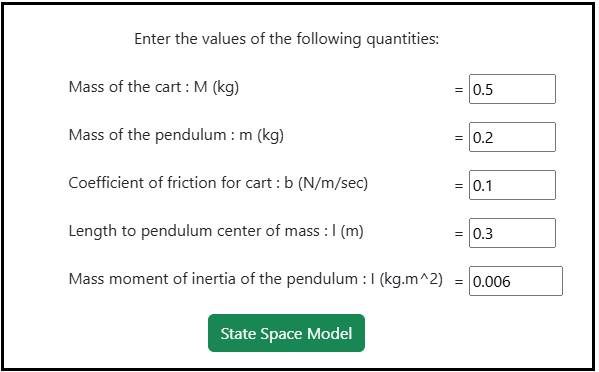
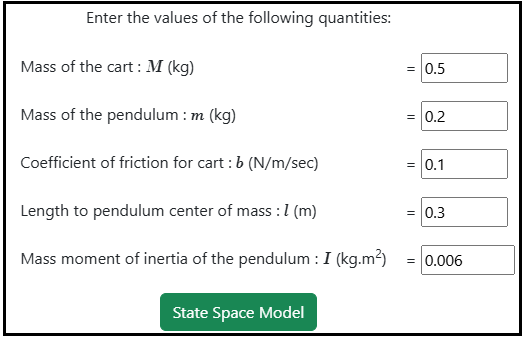
update 5

Changed region(s): [[0.0, 0.0, 1.0, 1.0], [0.7634, 0.1775, 0.9466, 0.4142]]

diff --git a/experiment/simulation/js/DS.js b/experiment/simulation/js/DS.js
@@ -71,10 +71,10 @@ function system(){
 			
 			
 			
-			document.getElementById('matA').innerHTML = ' A =['+ a11+',\t'+a12+',\t'+a13+',\t'+a14+';\t\t'+a21+','+a22+',\t'+a23+',\t'+a24+';\t\t'+a31+',\t'+a32+',\t'+a33+',\t'+a34+';\t\t'+a41+',\t'+a42+',\t'+a43+',\t'+a44+']';
-			document.getElementById('matB').innerHTML = ' B =['+ b1+';\t\t'+b2+';\t\t'+b3+';\t'+b4+']';
-			document.getElementById('matC').innerHTML = ' C =['+ c11+',\t'+c12+',\t'+c13+',\t'+c14+';\t\t'+c21+','+c22+',\t'+c23+',\t'+c24+']';
-			document.getElementById('matD').innerHTML = ' D =['+ d11+';\t\t'+d21+']';
+			document.getElementById('matA').innerHTML = '<span style="font-family:Bodoni MT;font-style:italic;font-size:18px"> A</span> =['+ a11+',\t'+a12+',\t'+a13+',\t'+a14+';\t\t'+a21+','+a22+',\t'+a23+',\t'+a24+';\t\t'+a31+',\t'+a32+',\t'+a33+',\t'+a34+';\t\t'+a41+',\t'+a42+',\t'+a43+',\t'+a44+']';
+			document.getElementById('matB').innerHTML = '<span style="font-family:Bodoni MT;font-style:italic;font-size:18px"> B</span> =['+ b1+';\t\t'+b2+';\t\t'+b3+';\t'+b4+']';
+			document.getElementById('matC').innerHTML = '<span style="font-family:Bodoni MT;font-style:italic;font-size:18px"> C</span> =['+ c11+',\t'+c12+',\t'+c13+',\t'+c14+';\t\t'+c21+','+c22+',\t'+c23+',\t'+c24+']';
+			document.getElementById('matD').innerHTML = '<span style="font-family:Bodoni MT;font-style:italic;font-size:18px"> D</span> =['+ d11+';\t\t'+d21+']';
 			
 			//outputText1=" G(s)= ["+b0+"s\u00B2+("+b1+")s+("+b2+ ")] / [" +a0+"s<sup>2</sup>+("+a1+")s+("+a2+ ")]";
 			
@@ -248,10 +248,10 @@ function CNTR(){
 			var AAB= math.matrix([aab1, aab2, aab3, aab4]);
 			var AAAB= math.matrix([aaab1, aaab2, aaab3, aaab4]);
 			
-			document.getElementById('matQcB').innerHTML = 'B ='+ B;
-			document.getElementById('matQcAB').innerHTML = ' AB ='+ AB;
-			document.getElementById('matQcAAB').innerHTML = ' A<sup>2</sup>B ='+ AAB;
-			document.getElementById('matQcAAAB').innerHTML = ' A<sup>3</sup>B ='+ AAAB;
+			document.getElementById('matQcB').innerHTML = '<span style="font-family:Bodoni MT;font-style:italic;font-size:18px">B</span> ='+ B;
+			document.getElementById('matQcAB').innerHTML = ' <span style="font-family:Bodoni MT;font-style:italic;font-size:18px">AB</span> ='+ AB;
+			document.getElementById('matQcAAB').innerHTML = ' <span style="font-family:Bodoni MT;font-style:italic;font-size:18px">A<sup>2</sup>B</span> ='+ AAB;
+			document.getElementById('matQcAAAB').innerHTML = ' <span style="font-family:Bodoni MT;font-style:italic;font-size:18px">A<sup>3</sup>B</span> ='+ AAAB;
 			
 			//var Qc1= math.matrix([[0, 1.818, -0.331, 12.209], [1.818, -0.331, 12.209, -4.433], [0, 4.545, -0.827, 141.873], [4.545, -0.827, 141.873, -31.349]]);
 			//var DQc1=math.det(Qc1);
@@ -259,7 +259,7 @@ function CNTR(){
 			
 			var Qc= math.matrix([[b1, ab1, aab1, aaab1],[b2, ab2, aab2, aaab2],[b3, ab3, aab3, aaab3],[b4, ab4, aab4, aaab4]]);
 			
-			document.getElementById('matQc').innerHTML = ' Q<sub>c</sub> =['+ b1+',\t'+ab1+',\t'+aab1+',\t'+aaab1+';\t\t'+b2+','+ab2+',\t'+aab2+',\t'+aaab2+';\t\t'+b3+',\t'+ab3+',\t'+aab3+',\t'+aaab3+';\t\t'+b4+',\t'+ab4+',\t'+aab4+',\t'+aaab4+']'
+			document.getElementById('matQc').innerHTML = ' <span style="font-family:Bodoni MT;font-style:italic;font-size:18px">Q<sub>c</sub></span> =['+ b1+',\t'+ab1+',\t'+aab1+',\t'+aaab1+';\t\t'+b2+','+ab2+',\t'+aab2+',\t'+aaab2+';\t\t'+b3+',\t'+ab3+',\t'+aab3+',\t'+aaab3+';\t\t'+b4+',\t'+ab4+',\t'+aab4+',\t'+aaab4+']'
 			
 			var DQc= math.divide(math.round(math.multiply(math.det(Qc),1000)),1000);
 			console.log(DQc);
@@ -270,16 +270,16 @@ function CNTR(){
 			{  
 		
 		       
-		       Cntrl_Test1=" Rank of Q<sub>c</sub> = Order of A = n = 4";			   
-			   Cntrl_Test2="Determinent of Q<sub>c</sub> = " +DQc+ "";				    
+		       Cntrl_Test1=" Rank is 4";			   
+			   Cntrl_Test2="Determinent is" + '\t'+ DQc;				    
 			   Cntrl_Test3=" System is completely controllable";
 			   document.getElementById("Cntrl_Test1").innerHTML=Cntrl_Test1;
 			   document.getElementById("Cntrl_Test2").innerHTML=Cntrl_Test2;
 			   document.getElementById("Cntrl_Test3").innerHTML=Cntrl_Test3;
 			}
 			   else 
-			   {   Cntrl_Test1=" Rank of Q<sub>c</sub> < Order of A = n = 4";
-		           Cntrl_Test2="Determinent of Q<sub>c</sub> = " +DQc+ "";		
+			   {   Cntrl_Test1=" Rank < n = 4";
+		           Cntrl_Test2="Determinent is" +DQc+ "";		
 			       Cntrl_Test3=" System is not controllable";
 			       document.getElementById("Cntrl_Test1").innerHTML=Cntrl_Test1;
 				   document.getElementById("Cntrl_Test2").innerHTML=Cntrl_Test2;
@@ -430,7 +430,7 @@ function OBSR(){
 			
 			var Qoo= math.matrix([[c11, c12, c13, c14],[c21, c22, c23, c24],[ca11, ca12, ca13, ca14],[ca21, ca22, ca23, ca24]]);
 			
-			document.getElementById('matQo').innerHTML = 'Q<sub>o</sub> =['+ c11+',\t'+c12+',\t'+c13+',\t'+c14+';\t\t'+c21+','+c22+',\t'+c23+',\t'+c24+',\t'+ ca11+',\t'+ca12+',\t'+ca13+',\t'+ca14+';\t\t'+ca21+','+ca22+',\t'+ca23+',\t'+ca24+']'
+			document.getElementById('matQo').innerHTML = '<span style="font-family:Bodoni MT;font-style:italic;font-size:18px">Q<sub>o</sub></span> =['+ c11+',\t'+c12+',\t'+c13+',\t'+c14+';\t\t'+c21+','+c22+',\t'+c23+',\t'+c24+',\t'+ ca11+',\t'+ca12+',\t'+ca13+',\t'+ca14+';\t\t'+ca21+','+ca22+',\t'+ca23+',\t'+ca24+']'
 			
 			var DQoo= math.divide(math.round(math.multiply(math.det(Qoo),1000)),1000);
 			console.log(DQoo);
@@ -463,10 +463,10 @@ function OBSR(){
 			 
 			 
 			 
-			document.getElementById('matQoC').innerHTML = ' C =['+ c11+',\t'+c12+',\t'+c13+',\t'+c14+';\t\t'+c21+','+c22+',\t'+c23+',\t'+c24+']'
-			document.getElementById('matQoCA').innerHTML = ' CA =['+ ca11+',\t'+ca12+',\t'+ca13+',\t'+ca14+';\t\t'+ca21+','+ca22+',\t'+ca23+',\t'+ca24+']'
-			document.getElementById('matQoCAA').innerHTML = ' CA<sup>2</sup> =['+ caa11+',\t'+caa12+',\t'+caa13+',\t'+caa14+';\t\t'+caa21+','+caa22+',\t'+caa23+',\t'+caa24+']'
-			document.getElementById('matQoCAAA').innerHTML = ' CA<sup>3</sup> =['+ caaa11+',\t'+caaa12+',\t'+caaa13+',\t'+caaa14+';\t\t'+caaa21+','+caaa22+',\t'+caaa23+',\t'+caaa24+']'
+			document.getElementById('matQoC').innerHTML = '<span style="font-family:Bodoni MT;font-style:italic;font-size:18px"> C</span> =['+ c11+',\t'+c12+',\t'+c13+',\t'+c14+';\t\t'+c21+','+c22+',\t'+c23+',\t'+c24+']'
+			document.getElementById('matQoCA').innerHTML = '<span style="font-family:Bodoni MT;font-style:italic;font-size:18px"> CA</span> =['+ ca11+',\t'+ca12+',\t'+ca13+',\t'+ca14+';\t\t'+ca21+','+ca22+',\t'+ca23+',\t'+ca24+']'
+			document.getElementById('matQoCAA').innerHTML = '<span style="font-family:Bodoni MT;font-style:italic;font-size:18px"> CA<sup>2</sup></span> =['+ caa11+',\t'+caa12+',\t'+caa13+',\t'+caa14+';\t\t'+caa21+','+caa22+',\t'+caa23+',\t'+caa24+']'
+			document.getElementById('matQoCAAA').innerHTML = '<span style="font-family:Bodoni MT;font-style:italic;font-size:18px"> CA<sup>3</sup></span> =['+ caaa11+',\t'+caaa12+',\t'+caaa13+',\t'+caaa14+';\t\t'+caaa21+','+caaa22+',\t'+caaa23+',\t'+caaa24+']'
 			
 		/*	if (DQo1!=0)
 			{  Obsrl_Test1=" Rank of Q<sub>o1</sub> = Order of A = n = 4";
@@ -495,16 +495,16 @@ function OBSR(){
 			   }
 			   */
 			   if (DQoo!=0)
-			{  Obsrl_Test5=" Rank of Q<sub>o</sub> = Order of A = n = 4";
-			   Obsrl_Test6="Determinent of Q<sub>o</sub> = " +DQoo+ "";	
+			{  Obsrl_Test5=" Rank is 4";
+			   Obsrl_Test6="Determinent is" + '\t'+ DQoo;	
 			   Obsrl_Test7=" System is completely observable";
 			   document.getElementById("Obsrl_Test5").innerHTML=Obsrl_Test5;
 			   document.getElementById("Obsrl_Test6").innerHTML=Obsrl_Test6;
 			   document.getElementById("Obsrl_Test7").innerHTML=Obsrl_Test7;
 			}
 			   else 
-			   {   Obsrl_Test5=" Rank of Q<sub>o</sub> < Order of A = n = 4";
-		           Obsrl_Test6="Determinent of Q<sub>o</sub> = " +DQoo+ "";	
+			   {   Obsrl_Test5=" Rank < n = 4";
+		           Obsrl_Test6="Determinent is" +DQoo+ "";	
 			       Obsrl_Test7=" System is not observable";
 			       document.getElementById("Obsrl_Test5").innerHTML=Obsrl_Test5;
 				   document.getElementById("Obsrl_Test6").innerHTML=Obsrl_Test6;

diff --git a/experiment/simulation/index.html b/experiment/simulation/index.html
@@ -101,7 +101,6 @@
 </head>
 
 
-
 <body><!--body tag start-->
     <div class="container p-3 my-3 text-primary text-center border"><!--First Container under body tag start-->
         <div class="row"><!--First row under 1st container start-->
@@ -122,15 +121,16 @@
 
             </div><!--First col under 2nd row end-->
             <div class="col-md-6"><!--2nd col under 2nd row start-->
-                <p class="h1"> <b>Simulation</b> </p>
+                <p class="h1"> <b> Simulation </b> </p>
             </div><!--2nd col under 2nd row end-->
             <div class="col-md-3"><!--3rd col under 2nd row start-->
 
             </div><!--3rd col under 2nd row end-->
         </div><!--2nd row under 1st container end-->
         <hr>
-        
+       
     </div><!--First Container under body tag end-->
+    
     
 	
     <div class="container p-3 my-5 text-left border"><!--3rd Container under body tag start-->
@@ -183,13 +183,12 @@
 			Enter the values of the following quantities: <br/><br/>
 			<!--<img class = "img-fluid" src="./images/Continuous_System.png" class="img-fluid" > <br/></br>-->
 			
-			<span style="position:absolute;left:33%">Mass of the cart :  M (kg)</span> <span style="position:absolute;left:63%;text-align:center">= <input type="number" id="M1" min="0.1" value="0.5" max="1" step="0.05"  ></span><br/></br>
-			<span style="position:absolute;left:33%">Mass of the pendulum : m (kg)</span><span style="position:absolute;left:63%;text-align:center"> = <input type="number" id="m1" min="0.1" value="0.2" max="1" step="0.05"  ></span><br/></br>
-			<span style="position:absolute;left:33%">Coefficient of friction for cart :  b (N/m/sec)</span> <span style="position:absolute;left:63%;text-align:center">= <input type="number" id="bc" min="0.01" value="0.1" max="1" step="0.01"  ></span><br/></br>
-            <span style="position:absolute;left:33%">Length to pendulum center of mass : l (m)</span> <span style="position:absolute;left:63%;text-align:center">= <input type="number" id="l1" min="0.1" value="0.3" max="1" step="0.05" ></span><br/></br>	
-            <span style="position:absolute;left:33%">Mass moment of inertia of the pendulum : I (kg.m^2)</span> <span style="position:absolute;left:63%;text-align:center">= <input type="number" id="I1" min="0.001" value="0.006" max="1" step="0.001" ></span><br/></br>
+			<span style="position:absolute;left:33%">Mass of the cart :  <span style="font-family:Bodoni MT;font-style:italic;font-size:18px">M</span> (kg)</span> <span style="position:absolute;left:63%;text-align:center">= <input type="number" id="M1" min="0.1" value="0.5" max="1" step="0.05"  ></span><br/></br>
+			<span style="position:absolute;left:33%">Mass of the pendulum : <span style="font-family:Bodoni MT;font-style:italic;font-size:18px">m</span> (kg)</span><span style="position:absolute;left:63%;text-align:center"> = <input type="number" id="m1" min="0.1" value="0.2" max="1" step="0.05"  ></span><br/></br>
+			<span style="position:absolute;left:33%">Coefficient of friction for cart :  <span style="font-family:Bodoni MT;font-style:italic;font-size:18px">b</span> (N/m/sec)</span> <span style="position:absolute;left:63%;text-align:center">= <input type="number" id="bc" min="0.01" value="0.1" max="1" step="0.01"  ></span><br/></br>
+            <span style="position:absolute;left:33%">Length to pendulum center of mass : <span style="font-family:Bodoni MT;font-style:italic;font-size:18px">l</span> (m)</span> <span style="position:absolute;left:63%;text-align:center">= <input type="number" id="l1" min="0.1" value="0.3" max="1" step="0.05" ></span><br/></br>	
+            <span style="position:absolute;left:33%">Mass moment of inertia of the pendulum : <span style="font-family:Bodoni MT;font-style:italic;font-size:18px">I</span> (kg.m<sup>2</sup>)</span> <span style="position:absolute;left:63%;text-align:center">= <input type="number" id="I1" min="0.001" value="0.006" max="1" step="0.001" ></span><br/></br>
             
-			
 			
 			<button class="btn btn-success" id ="run" onclick="system()">State Space Model</button>
 			
@@ -321,15 +320,15 @@
 			<span class="card-text text-left"><b>Controllability Test</b></span>
 			
 			$$ Q_c = [B, \ AB, \ A^2B, \ A^3B] $$
-			<span class="card-text" id="matQcB" ></span><br/<br/>
-			<span class="card-text" id="matQcAB" ></span><br/<br/>
-			<span class="card-text" id="matQcAAB" ></span><br/<br/>
-			<span class="card-text" id="matQcAAAB" ></span><br/<br/><br/>
-			<span class="card-text" id="matQc" ></span><br/<br/>
+			<span class="card-text" id="matQcB" ></span><br/><br/>
+			<span class="card-text" id="matQcAB" ></span><br/><br/>
+			<span class="card-text" id="matQcAAB" ></span><br/><br/>
+			<span class="card-text" id="matQcAAAB" ></span><br/><br/><br/>
+			<span class="card-text" id="matQc" ></span><br/><br/>
 			 
-			<button class="btn btn-success" onclick="showRank()">Rank of Qc</button>
+			<button class="btn btn-success" onclick="showRank()">Rank of <span style="font-family:Bodoni MT;font-style:italic;font-size:18px">Qc</span></button>
 				<span id="Cntrl_Test1" style="display:none"></span><br/><br/>
-			<button class="btn btn-success" onclick="showDetQc()">Determinant of Qc</button>
+			<button class="btn btn-success" onclick="showDetQc()">Determinant of <span style="font-family:Bodoni MT;font-style:italic;font-size:18px">Qc</span></button>
 			    <span id="Cntrl_Test2" style="display:none"></span><br/><br/>
 			<button class="btn btn-success" onclick="showinfo()">Inference</button>
 				<span id="Cntrl_Test3" style="display:none"></span>
@@ -354,9 +353,9 @@
 			<span class="card-text" id="matQoCAAA" ></span><br/<br/><br/>
 			<span class="card-text" id="matQo" ></span><br/<br/>
 			 
-			<button class="btn btn-success" onclick="showRankQo()">Rank of Qo</button>
+			<button class="btn btn-success" onclick="showRankQo()">Rank of <span style="font-family:Bodoni MT;font-style:italic;font-size:18px">Qo</span></button>
 				<span id="Obsrl_Test5" style="display:none"></span><br/><br/>
-			<button class="btn btn-success" onclick="showDetQo()">Determinant of Qo</button>
+			<button class="btn btn-success" onclick="showDetQo()">Determinant of <span style="font-family:Bodoni MT;font-style:italic;font-size:18px">Qo</span></button>
 			    <span id="Obsrl_Test6" style="display:none"></span><br/><br/>
 			<button class="btn btn-success" onclick="showinfoQo()">Inference</button>
 				<span id="Obsrl_Test7" style="display:none"></span>

diff --git a/experiment/procedure.md b/experiment/procedure.md
@@ -15,9 +15,6 @@
 
 <div align="center">
 <img class="img-fluid"  src="./images/2.png" alt="">           
-</div><br/>
-<div align="center">
-<img class="img-fluid"  src="./images/Prod_2_1.png" alt="">
 
 <b>Fig. 2. Button to get the state Space form of the system</b>							  
 </div>
